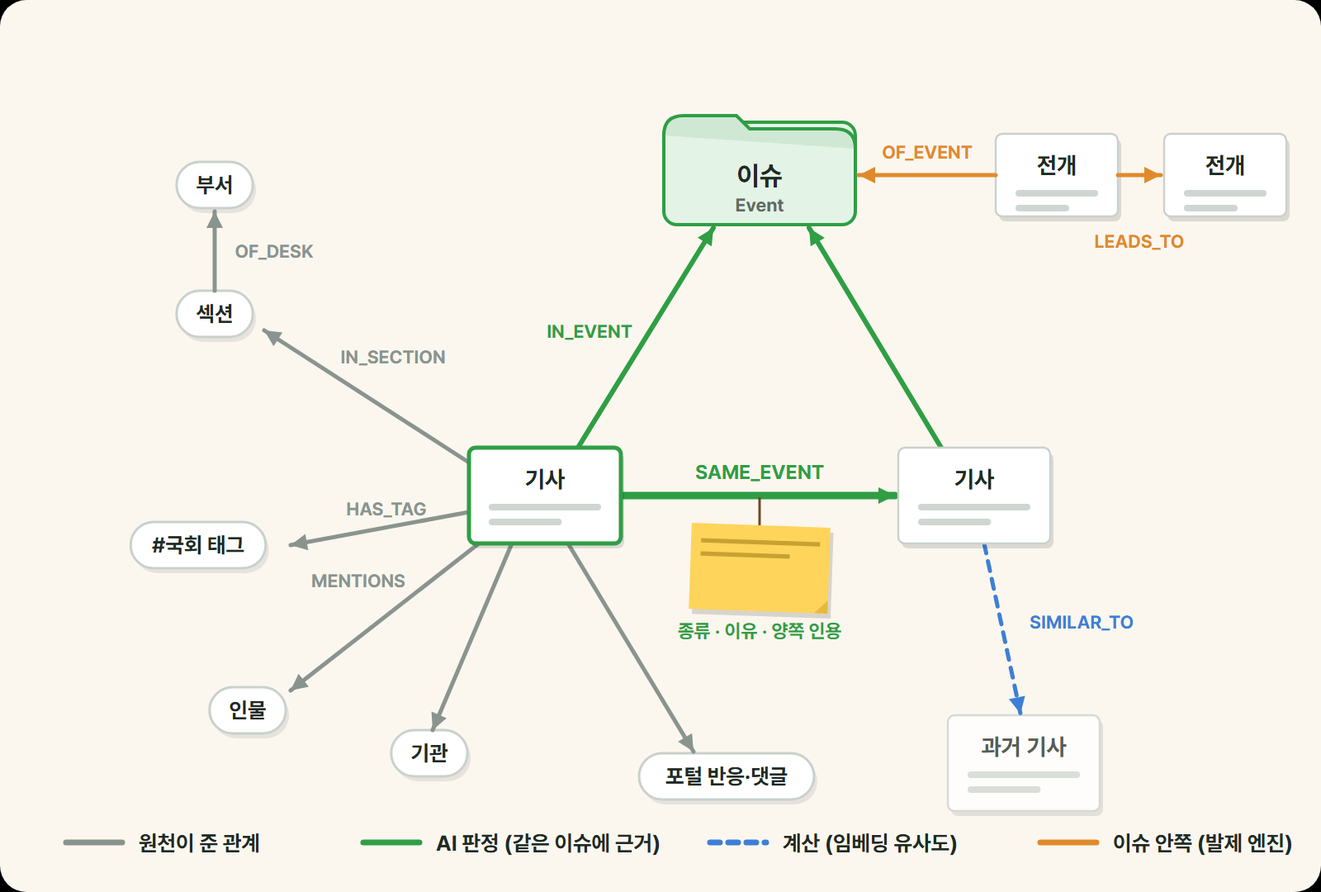
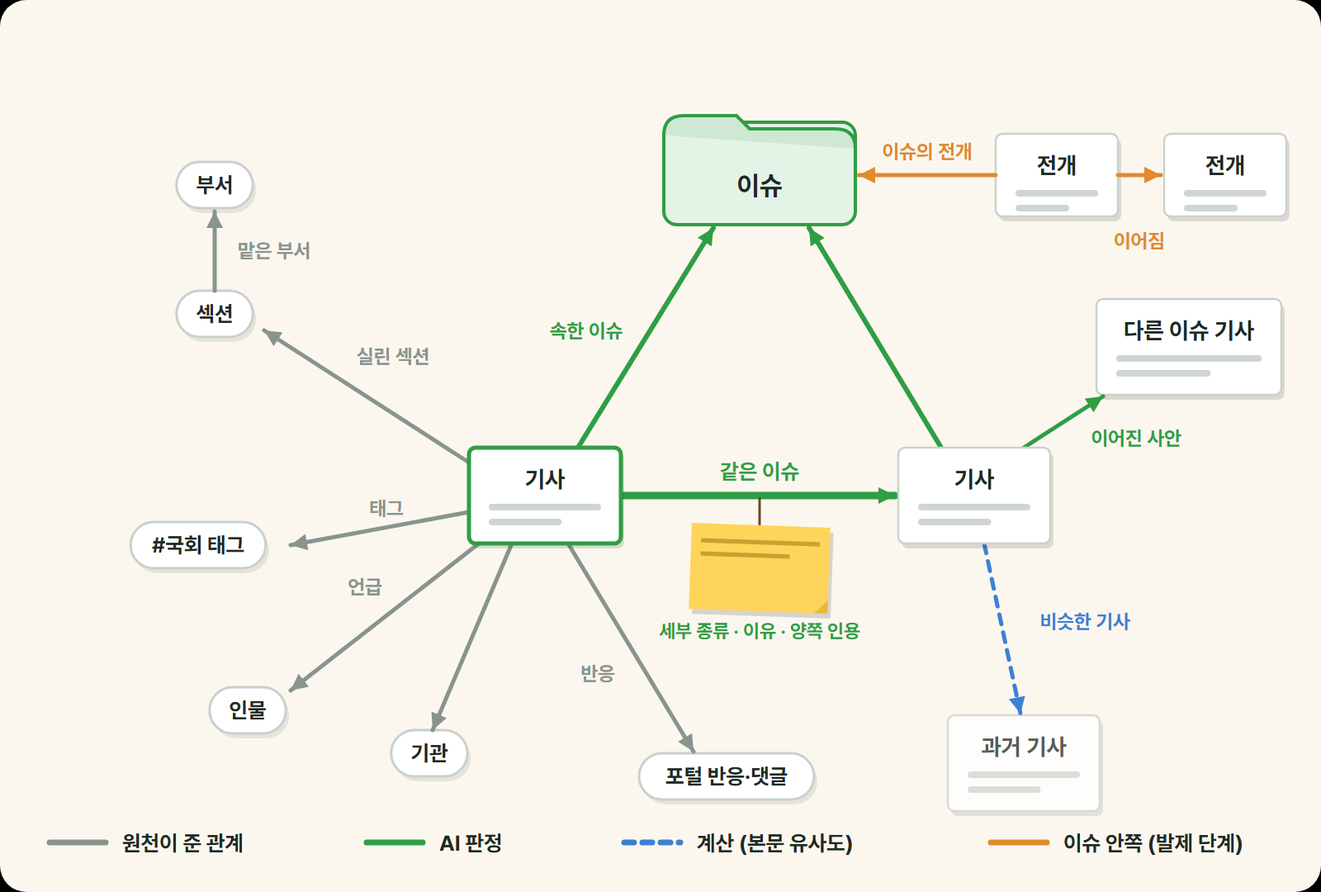
docs: 리뷰 반영: 문제·도입·시행착오 흐름으로 글 재구성

diff --git a/content/posts/nci-graph-ontology/index.md b/content/posts/nci-graph-ontology/index.md
@@ -1,183 +1,152 @@
 ---
 title: "이슈 흐름에서 후속 발제까지: 온톨로지 설계와 그래프 DB 구축"
-summary: "이슈 흐름을 파악해 후속 발제를 제안하던 사내 도구 N.C.I를 만들며, 왜 그래프와 온톨로지가 필요했는지, 온톨로지를 어떻게 설계하고 Amazon Neptune에 그래프를 어떻게 쌓았는지 정리했습니다."
+summary: "이슈 흐름을 파악해 후속 발제를 제안하던 사내 도구 N.C.I를 만들며 부딪힌 문제와, 이를 풀기 위해 그래프 DB와 온톨로지를 어떻게 도입했는지, 그 과정의 시행착오를 정리했습니다."
 category: tech
 topic: ai-db
 tags: ["Graph Database", "온톨로지", "Amazon Neptune", "openCypher", "데이터 모델링"]
 author: { name: "찬욱", role: "Backend Engineer" }
 publishedAt: 2026-11-09
-readingMinutes: 14
+readingMinutes: 16
 cover: ./cover.jpg
 ---
 
-안녕하세요. 한국일보에서 백엔드 개발을 맡고 있는 찬욱입니다.
+안녕하세요. 한국일보에서 클라우드를 담당하고 있는 찬욱입니다.
 
 한국일보에는 매일 쓰는 기사와 함께 조회 통계 같은 데이터가 쌓입니다. 하지만 이 데이터는 대부분 기사 한 건 단위로만 쓰였고, 기사와 기사 사이의 관계는 어디에도 남지 않았습니다. 쌓인 기사 데이터를 더 활용할 방법은 없을까, 그 관계를 그래프 DB에 담아 쓸 수는 없을까 고민하다 시작한 것이 사내 개념 검증(PoC) 프로젝트 N.C.I(New Context Insights)입니다.
 
-N.C.I는 기사가 어느 이슈에 묶이는지 AI가 판정해 이슈 흐름을 파악하고, **그 흐름을 바탕으로 편집회의에 올릴 후속 발제를 제안하는 도구**였습니다. 그 바탕에 기사 사이의 관계와 근거를 쌓은 그래프가 있습니다. 저는 그중 온톨로지 설계와 그래프 DB 구축을 맡았습니다.
+N.C.I는 기사가 어느 이슈에 묶이는지 AI가 판정해 이슈 흐름을 파악하고, **그 흐름을 바탕으로 편집회의에 올릴 후속 발제를 제안하는 도구**였습니다. N.C.I의 바탕에는 기사 사이의 관계와 근거를 쌓은 그래프가 있었고, 저는 N.C.I에서 온톨로지 설계와 그래프 DB 구축을 맡았습니다.
 
-이번 글에서는 왜 그래프와 온톨로지가 필요했는지, 온톨로지를 어떻게 설계하고 Amazon Neptune에 그래프를 어떻게 쌓았는지, 그 위에서 후속 발제까지 어떻게 이어졌는지 소개하겠습니다.
+이번 글에서는 N.C.I를 만들며 어떤 문제가 있었고, 이를 풀기 위해 그래프 DB와 온톨로지를 어떻게 도입했는지, 그 위에서 무엇이 가능해졌고 어떤 시행착오를 겪었는지 소개하겠습니다.
 
-## 1. 왜 그래프, 왜 온톨로지인가
+## 1. 기사 데이터로 답하기 어려웠던 질문
 
-N.C.I의 사용자는 아침 편집회의를 준비하는 부서 데스크였습니다. 원천 통계가 하루 한 번 들어오기 때문에, 실시간 대시보드가 아니라 회의 전에 한 번 보고 판단하는 브리핑으로 설계했습니다. 후속을 제안하려면 먼저 이슈가 어떻게 흘러왔는지 알아야 했습니다. 어떤 기사들이 같은 이슈인지, 그 안에서 무엇이 새로 확인됐고 무엇이 아직 확인되지 않았는지입니다. 기사, 이슈, 인물·기관, 포털 반응이 모두 서로 이어진 데이터였습니다.
+N.C.I의 사용자는 아침 편집회의를 준비하는 부서 데스크였습니다. 후속을 제안하려면 먼저 어떤 기사들이 같은 이슈이고, 그 안에서 무엇이 새로 확인됐고 무엇이 아직 확인되지 않았는지 알아야 했습니다.
 
-그래프 DB는 형사 드라마의 사건 보드와 비슷합니다. 보드의 카드가 노드, 카드를 잇는 실이 관계, 카드나 실에 붙인 메모가 속성입니다. 노드의 종류는 라벨, 관계의 종류는 타입이라고 부릅니다.
+하지만 기사 데이터는 제목, 날짜, 조회수 같은 항목으로만 저장돼 있어서, "두 기사가 같은 이슈다"처럼 기사 사이의 관계를 적을 항목이 없었습니다. 관계는 따로 저장해 두고, 찾을 때마다 기사 데이터와 대조해야 했습니다.
 
-![코르크 보드 위 두 기사 카드를 잇는 실(관계)에 종류·이유·양쪽 인용이 적힌 메모(속성)가 바로 붙어 있는 그림](./relation-evidence.png)
-
-돌아보면 그래프로 쌓아서 얻은 것은 세 가지였습니다.
-
-- **근거를 관계에 저장:** 관계형이라면 연결 테이블을 두고 매번 조인해야 하지만, 그래프에서는 선을 따라간 질의가 판정 이유와 원문 인용을 함께 꺼낼 수 있었습니다.
-- **날을 넘는 이슈:** 매일 기사가 붙고 합쳐지는 이슈의 변화를 노드와 관계로 남길 수 있었습니다.
-- **묻는 모양 그대로의 질의:** 몇 단계를 건너는 질문을 문장이 묻는 모양 그대로 질의로 쓰고, 사람이 읽고 검증할 수 있었습니다.
+이 대조를 여러 번 거쳐야 답이 나오는 질문도 있었습니다. 이슈의 기사가 어느 부서에서 나왔는지는 이슈에서 기사, 섹션을 거쳐 부서까지 매번 같은 세 단계입니다. 하지만 한 사건이 몇 단계의 사슬을 거쳐 다음 사건과 이어지는지는 그래프를 탐색해 봐야 알 수 있습니다. 예를 들어 같은 이슈 안에서 어떤 발표가 다음 결정으로, 그 결정이 다시 다른 조치로 이어지기도 합니다. 이런 질문은 몇 번 대조해야 할지 미리 알 수 없어서, 언제 멈출지까지 직접 정해 줘야 했습니다.
 
 ![2컷 만화. 이슈-기사-섹션-부서처럼 단계가 정해진 질문과, 전개가 몇 단계로 이어질지 모르는 질문](./hop-questions.png)
 
-이슈의 기사가 어느 부서에서 나왔는지는 매번 같은 세 단계를 건너지만, 한 사건이 다음 사건을 낳은 사슬은 몇 단계일지 따라가 봐야 압니다. 관계형 DB라면 재귀 쿼리와 멈출 조건을 직접 써야 하는 질문입니다.
+또 N.C.I 화면은 미리 정해 둔 질문에만 답해서, 한 부서의 기사를 시간대별로 세어 달라는 것처럼 데스크가 그때그때 떠올린 질문에는 답할 수 없었습니다.
 
-그중에서도 관리형 그래프 DB인 Neptune을 들인 직접적인 이유는 데스크가 화면에 없는 질문을 던지는 **물어보기 창**이었습니다. 화면에 쓰는 계산만이라면 배치 때 메모리에 그래프를 올려도 같은 결과가 나왔지만, AI 에이전트가 아무 때나 질의를 짜려면 실행 중인 그래프 DB가 필요했습니다.
+## 2. 그래프 DB와 온톨로지
 
-그래프 DB가 사건 보드라면, 온톨로지는 그 보드에 어떤 카드와 실을 쓰고 각각 무슨 뜻인지 정한 약속입니다. N.C.I는 OWL 같은 추론용 형식 언어를 쓰지 않았습니다. 여기서 온톨로지는 노드 라벨과 관계 타입, 그 뜻을 정하는 스키마 설계를 말합니다.
+### 그래프 DB와 Neptune
+
+기사 사이의 관계를 따라가야 답이 나오는 질문에 답하려고, 연결 자체를 데이터로 담는 그래프 DB를 쓰기로 했습니다. 그래프 DB는 형사 드라마에 나오는 사건 보드와 비슷합니다. 형사는 용의자, 피해자, 장소를 카드 한 장에 하나씩 적어 보드에 붙이고, 서로 관련 있는 카드끼리 실로 잇습니다. 실에는 "사건 당일 통화"처럼 왜 이었는지를 메모로 붙입니다. 그러면 실을 따라가며 누가 누구와 어떻게 얽혀 있는지 볼 수 있습니다.
+
+그래프 DB에서는 카드처럼 하나하나의 대상을 노드, 두 대상을 잇는 실을 관계, 카드나 실에 붙인 메모를 속성이라고 합니다.
+
+N.C.I의 보드에서는 기사와 인물·기관, 이슈가 노드입니다. 두 기사를 잇는 "같은 이슈" 실과 기사에서 인물로 이어지는 "언급" 실이 관계이고, "같은 이슈" 실에는 왜 같은 이슈로 봤는지 판정 이유와 양쪽 원문 인용을 메모로 붙였습니다. 형사가 실을 따라가듯, 몇 단계를 건너는 질문도 실을 따라 노드에서 노드로 넘어가면 되므로 단계가 몇 개인지 미리 정하지 않고 물을 수 있습니다.
+
+![코르크 보드 위 두 기사 카드를 잇는 실(관계)에 판정 이유·양쪽 인용이 적힌 메모(속성)가 바로 붙어 있는 그림](./relation-evidence.png)
+
+그래프 DB로는 AWS의 Amazon Neptune을 사용했습니다. Neptune을 사용한 이유는 데스크가 화면에 없는 질문을 AI 에이전트에게 던지는 **물어보기 기능** 때문이었습니다. 화면에 보여 줄 숫자는 하루 한 번 계산해 두면 됐지만, 데스크가 원하는 때에 에이전트가 그래프에 질의하려면 그래프 DB가 늘 켜져 있어야 했습니다.
+
+### 온톨로지
+
+온톨로지는 한 분야의 개념과 그 사이의 관계를 정해 둔 것으로, 사람과 프로그램이 같은 말을 같은 뜻으로 쓰게 하는 것이 목적입니다. 사건 보드에 빗대면 어떤 종류의 카드와 실을 쓰고 각각이 무엇을 뜻하는지 적어 둔 목록입니다. N.C.I의 온톨로지에는 기사, 이슈, 인물·기관, 부서 같은 노드의 종류와 "같은 이슈", "이어진 사안", "언급" 같은 관계의 종류, 그리고 각각의 뜻이 들어갔습니다.
+
+뜻을 정해 두지 않으면 "같은 이슈"라는 말부터 흔들립니다. 두 기사에 "국회" 같은 이름이 함께 나오기만 해도 같은 이슈로 볼 수도 있고, 내용을 읽고 같은 사안인지 따져 본 뒤에야 같은 이슈로 볼 수도 있습니다. 같은 이름이 나와도 실제로 같은 이슈인 경우는 생각보다 적어서, N.C.I는 AI가 두 기사를 읽고 같은 사안이라고 판정한 관계만 "같은 이슈"로 정했습니다. 이름이 겹치는지는 AI에게 비교를 맡길 기사 짝을 고르는 데만 썼습니다.
+
+그런데 Neptune 같은 그래프 DB는 이렇게 정해 둔 카드와 실의 종류를 지켜 주지 않습니다. 항목으로 저장하는 DB는 어떤 항목을 둘지 먼저 정해야 값을 넣을 수 있어서, 틀에 맞지 않는 값은 들어가지 않습니다. 반면 Neptune은 그런 틀 없이 처음 보는 종류의 카드와 실도 그대로 받아 줍니다. 그래서 정해 둔 종류와 뜻을 지키는 일은 DB가 아니라 데이터를 싣는 쪽과 꺼내 쓰는 쪽이 맡아야 했습니다. 특히 그때그때 스스로 질의를 짜는 물어보기 에이전트는 이 뜻을 알아야 해서, 온톨로지를 문서로 정리해 질의 전에 먼저 읽게 했습니다.
 
 <details class="mt-20 rounded-8 border border-line bg-surface px-16 py-12 text-15 [&>p]:mt-8">
-<summary class="cursor-pointer font-semibold text-foreground">OWL이란?</summary>
+<summary class="cursor-pointer font-semibold text-foreground">N.C.I 온톨로지 예시</summary>
 
-OWL(Web Ontology Language)은 W3C가 정한 온톨로지 언어입니다. 모든 데이터를 주어·술어·목적어 세 칸 문장으로 적는 RDF 데이터 위에서 개념과 관계를 형식적으로 정의해 두면, 추론기(reasoner)라는 프로그램이 그 정의에서 데이터에 적혀 있지 않은 새 사실을 끌어냅니다. 예를 들어 "부장은 데스크의 한 종류"라고 정의해 두면, 어떤 기자가 부장이라는 사실만으로 데스크라는 결론을 냅니다.
+에이전트가 읽는 온톨로지 문서의 일부를 줄여 옮기면 이렇습니다. 정해진 표준 형식은 아닙니다. LLM이 질의를 짤 수 있게 노드·관계 종류와 연결 모양을 알려 주는 스키마 설명에, 사람이 적은 뜻과 주의 사항을 더한 것입니다. 실제 문서에는 노드와 관계마다 개수, 부서 목록, 수집 기간도 함께 들어 있습니다.
 
-N.C.I는 두 기사가 같은 이슈인지를 코드 규칙과 LLM이 그래프 밖에서 판정하고, 그 결과만 그래프에 실었습니다. 그래서 추론기가 할 일이 없었고, 온톨로지를 노드와 관계의 뜻을 정한 스키마로만 썼습니다.
+```text
+노드  Article(기사) · Event(이슈) · Entity(인물·기관·사건명) · Tag · Section · Desk
+      Development(전개) · Open(미확인 사항) · Pitch(발제) …
+
+관계  (Article)-[:SAME_EVENT]->(Article)   AI가 판정한 같은 이슈
+      (Article)-[:IN_EVENT]->(Event)       기사가 속한 이슈
+      (Article)-[:MENTIONS]->(Entity)      기사가 언급한 인물·기관
+      (Article)-[:SIMILAR_TO]->(Article)   본문이 비슷한 기사(계산)
+      (Event)-[:CONTINUES]->(Event)        ID가 바뀐 이슈의 옛 이슈 → 새 이슈 …
+
+주의  - 이슈는 Event 노드다. 이슈의 기사는 IN_EVENT로 묻고, 태그로 뭉치지 마라.
+      - SIMILAR_TO는 "비슷하다"이지 "같은 이슈"가 아니다. 이걸로 이슈를 묶지 마라.
+      - Event의 이름은 모델이 지은 것이다. 사실로 인용하지 말고 모델이 붙인 이름이라고 밝혀라.
+      - Batch·Section은 그날 기사 전부와 이어진다. 이걸 거쳐 관련 기사를 뽑지 마라.
+      - 기자 정보는 묻지 마라.
+```
 
 </details>
 
-Neptune은 스키마를 강제하지 않습니다. 약속을 따로 세우지 않으면 같은 "이슈"가 질의마다 다른 뜻이 됩니다. 물어보기 에이전트도 이 약속을 읽고 질의를 짰습니다.
+정한 뜻은 사람이 함께 보는 용어집에도 남겨, 한 뜻에 한 단어만 쓰고 "이렇게 부르지 말 것"도 적었습니다. 예를 들어 전개는 "한 이슈 안에서 보도로 확인되는 새 발표·결정·진행"이고, 기사 한 편이나 이슈 전체는 전개라고 부르지 않습니다.
 
-## 2. 온톨로지 설계
+## 3. 온톨로지 설계와 그래프 구축
 
-### 질문에서 개념으로
+### 질문에서 시작한 설계
 
-이 약속, 곧 모델은 질문에서 시작했습니다. 근거는 원천 데이터를 실측한 결과와 화면이 답해야 할 실무 질문, 두 가지였습니다. 데이터 모양에서 출발하면 원천 테이블의 열이 그대로 노드와 속성이 되고, 정작 묻는 질문에는 답하지 못합니다.
+온톨로지 설계는 질문에서 시작했습니다. 원천 데이터의 모양을 그대로 옮기면 기사 사이의 관계는 빠진 채 항목만 노드와 속성이 되어, 정작 화면이 답해야 할 질문에는 답하지 못합니다. 질문 목록을 먼저 세우고, 온톨로지를 바꿀 때마다 이 목록으로 채점했습니다. 회의 브리핑에 쓰는 문항 가운데 하나라도 답하지 못하게 되면 변경을 되돌렸습니다. 문항마다 결과는 네 가지로 매겼습니다.
 
-그래서 고정 질문 목록을 먼저 세우고, 모델을 바꿀 때마다 이 질문으로 채점했습니다. 회의 브리핑에 쓰는 문항이 하나라도 깨지면 변경을 되돌렸습니다. 문항마다 판정은 네 가지로 매겼습니다.
-
-| 판정 | 뜻 | 쓰임 |
+| 결과 | 뜻 | 쓰임 |
 | --- | --- | --- |
-| 답한다 | 지금 모델과 화면이 답한다 | 회귀 기준 |
+| 답한다 | 지금 그래프와 화면이 답한다 | 고칠 때마다 계속 답하는지 확인 |
 | 그래프만 답한다 | 질의로는 답이 나오지만 화면이 없다 | 물어보기가 맡을 질문 |
-| 모델이 못 담는다 | 재료는 있는데 구조가 못 담는다 | 모델을 고칠 이유 |
+| 온톨로지가 못 담는다 | 재료는 있는데 지금 설계로는 못 담는다 | 온톨로지를 고칠 이유 |
 | 답하면 안 된다 | 원천이 부족하거나 정책상 금지다 | "답할 수 없다"가 정답 |
-
-마지막 칸이 중요했습니다. "이 기자의 다른 기사 성과는?"은 답이 나오지만 기자별 성적표가 되므로 정책상 뺐습니다. "출고 후 수정된 기사는?"처럼 값은 있어도 뜻이 다른 질문은 그럴듯한 거짓 답을 냅니다. 수정 시각은 시스템이 메타데이터만 바꿔도 찍히는 값이었습니다.
-
-개념 하나를 더할 때는 이 순서를 밟았습니다.
-
-```text
-질문 모으기 → 명사를 개념 후보로 → 노드·속성 판정 → 관계 방향 정하기 → ID 유일성 확인 → 다시 채점
-```
-
-노드로 올릴지는 네 가지로 판단했습니다. 여러 기사가 공유하는가, 그 값에서 출발하는 질문이 있는가, 원천이 그 값을 보증하는가, 키가 안정적인가입니다.
-
-- **속성으로 둔 것:** 정기물 여부와 출고 날짜·시각은 질문에 필요해서 기사 속성으로 올렸습니다.
-- **되돌린 것:** 기사 성과 수치를 노드로 뒀다가 기사와 1:1이라 네 기준 중 하나도 맞지 않아 속성으로 접었습니다. 접은 뒤 노드 수 표시 말고는 화면 결과가 한 글자도 바뀌지 않은 것으로 검증했습니다.
-
-정한 개념은 용어집에 남겼습니다. 한 뜻에 한 단어만 쓰고, 항목마다 정의와 함께 "이렇게 부르지 말 것"을 적었습니다. 예를 들어 전개는 "한 이슈 안에서 보도로 확인되는 새 발표·결정·진행"이고, 기사 한 편이나 이슈 전체를 전개라고 부르지 않기로 했습니다.
 
 ### 원천이 준 관계와 만든 관계
 
-첫 원칙은 "원천 데이터가 주지 않은 구조는 만들지 않는다"였습니다. 하지만 두 기사가 같은 이슈인지는 원천이 알려 주지 않습니다. 그래서 원천 밖에서 만든 관계는 조건을 붙인 예외로 들이고, 만든 방법을 `source` 속성으로 표시했습니다. 질의가 신뢰도를 가릴 수 있게 하기 위해서입니다.
+관계를 정할 때 첫 원칙은 "원천 데이터가 주지 않은 구조는 만들지 않는다"였습니다. 그래프에는 원천이 확인해 준 사실만 두고, 판단은 사람에게 맡기려는 것이었습니다. 하지만 N.C.I의 중심인 "두 기사가 같은 이슈인가"는 원천이 알려 주지 않습니다. 그래서 원천 밖에서 만든 관계는 예외로 허용하고, 만든 방법을 `source` 속성으로 표시해 질의에서 신뢰도를 구분할 수 있게 했습니다.
 
-| 층 | 노드·관계 | 만든 방법 |
-| --- | --- | --- |
-| 원천 구조 | 기사, 섹션, 부서, 포털 반응·댓글 | 원천 그대로 |
-| 원천이 준 개체 | 태그, 인물·기관·사건명 개체와 `MENTIONS` | 원천 그대로 |
-| 판정 | `SAME_EVENT`(같은 이슈), `SAME_THREAD`(이어지는 흐름), 이슈와 `IN_EVENT` | LLM 판정 |
-| 계산 | `SIMILAR_TO`(본문이 비슷한 기사) | 임베딩 유사도 |
-| 이슈 안쪽 | 전개·미확인 사항·발제와 `LEADS_TO` | 후속 발제 엔진의 결과 |
+![N.C.I 온톨로지 지도. 기사를 중심으로 원천이 준 관계, AI가 판정한 같은 이슈·이어진 사안 관계와 이슈, 계산으로 만든 유사 관계를 선 모양으로 구분한 그림](./ontology-map.png)
 
-![N.C.I 온톨로지 지도. 기사를 중심으로 원천이 준 관계, AI가 판정한 같은 이슈 관계와 이슈, 계산으로 만든 유사 관계를 선 모양으로 구분한 그림](./ontology-map.png)
+같은 사안을 다루는 두 기사는 "같은 이슈" 관계로 잇고, 이 관계를 따라 이어지는 기사들만 하나의 이슈로 묶었습니다. 묶는 계산은 그래프 밖에서 하고 결과만 실었습니다. 다른 사안이지만 앞 사안에서 비롯된 기사는 "이어진 사안" 관계로 잇되, 이 관계로는 이슈를 묶지 않았습니다. 예를 들어 태풍 피해 기사와 피해 복구 예산 기사는 서로 다른 이슈이고, 복구 예산은 태풍 피해에서 비롯된 사안입니다. 이런 "이어진 사안"까지 "같은 이슈"로 이으면 A와 B, B와 C, C와 D가 차례로 이어지다가 서로 상관없는 A와 D까지 한 이슈가 됩니다.
 
-인물·기관 개체를 공유한다고 같은 이슈인 경우는 생각보다 적었습니다. 그래서 개체 공유는 화면에 바로 내지 않고 판정 후보를 고르는 재료로만 썼습니다. 이슈는 연결 모양으로 자동으로 묶는 그래프 알고리즘 대신 판정으로 묶었습니다.
+이 가운데 온톨로지의 중심은 "같은 이슈" 관계인 `SAME_EVENT`입니다. 관계 위에는 세부 종류(후속·반응·배경·다른 각도), 판정 이유 한 문장, 짧은 요지, 양쪽 원문 인용, 판정한 AI 모델을 함께 실었고, 방향은 먼저 나온 기사에서 나중 기사로 뒀습니다.
 
-### 관계 위의 근거와 ID
+### 그래프 구축
 
-온톨로지의 중심은 기사와 기사를 잇는 `SAME_EVENT` 관계입니다. 관계 위에 관계 종류(후속·반응·배경·다른 각도), 판정 이유 한 문장, 짧은 요지, 양쪽 원문 인용, 판정 모델을 함께 실었고, 방향은 먼저 나온 기사에서 나중 기사로 뒀습니다.
-
-N.C.I는 그래프용 질의 언어인 openCypher를 썼습니다. 괄호는 노드, 대괄호는 관계, 화살표는 방향입니다. 근거는 이렇게 질의 한 번으로 꺼냈습니다.
-
-```cypher
-MATCH (a:Article {id: $a})-[r:SAME_EVENT]-(b:Article {id: $b})
-RETURN r.relation, r.reason, r.quoteA, r.quoteB, r.source
-```
-
-<details class="mt-20 rounded-8 border border-line bg-surface px-16 py-12 text-15 [&>p]:mt-8">
-<summary class="cursor-pointer font-semibold text-foreground">openCypher 읽는 법</summary>
-
-openCypher는 Neo4j가 만든 그래프 질의 언어 Cypher를 여러 DB가 쓸 수 있게 공개한 사양입니다. SQL이 표에서 행을 고른다면, openCypher는 찾고 싶은 그래프 모양을 그려서 그 모양과 맞는 부분을 찾습니다.
-
-위 질의에서 `(a:Article {id: $a})`는 라벨이 Article이고 id가 $a인 노드, `-[r:SAME_EVENT]-`는 두 노드를 잇는 SAME_EVENT 관계를 뜻합니다. 화살표 없이 쓰면 방향을 가리지 않습니다. `RETURN`은 SQL의 SELECT처럼 꺼낼 값을 고릅니다.
-
-</details>
-
-양쪽 인용이 원문에 글자 그대로 있고 두 기사가 모두 그래프에 있을 때만 실었습니다. 다만 이 대조는 문장이 원문에 있다는 것만 보장할 뿐, 판정이 옳다는 보장은 아닙니다. 이슈는 이 관계로 이어진 기사 묶음으로, 묶음은 그래프 밖에서 계산해 결과만 실었습니다.
-
-관계를 설계하며 지킨 원칙이 둘 더 있습니다.
-
-- **묶음 관계와 흐름 관계를 나눈다:** 같은 이슈인지와, 한 일이 다음 일로 이어졌는지를 다른 타입으로 뒀습니다. 한 타입에 섞으면 A-B, B-C, C-D로 이어지다가 서로 무관한 A와 D가 한 이슈가 됩니다.
-- **합쳐도 지우지 않는다:** 전개 두 개를 하나로 합칠 때 흡수된 쪽을 지우지 않고, 합친 쪽을 가리키는 관계를 남긴 뒤 기본 조회에서만 빠지게 했습니다. 잘못 합쳤을 때 펼쳐 되살릴 수 있게 하기 위해서입니다.
-
-ID는 "무엇이 같은 것인가"를 정하는 일이었습니다. Neptune의 노드 ID는 라벨과 상관없이 그래프 전체에서 유일해야 해서, 이름을 그대로 ID로 쓰자 적재할 때 태그 '국회'와 기관 '국회'가 노드 하나로 합쳐졌습니다. 그래서 `tag:국회`, `ent:group:국회`처럼 모든 ID 앞에 노드 종류를 붙였습니다.
-
-![꼬리표(노드 ID)가 같은 태그 국회와 기관 국회가 적재할 때 하나로 합쳐지고, ID에 종류를 붙이면 따로 남는 그림](./loader-id.png)
-
-이슈 ID는 더 까다로웠습니다. 구성원 기사 목록으로 ID를 만드니 기사 하나만 붙어도 다른 이슈가 되어, 그래프가 역사가 아니라 그날의 스냅샷이 됐습니다. 그래서 어제 이슈와 기사가 절반 이상 겹치면 ID를 이어받게 하고, 합쳐지거나 갈라져 ID가 바뀐 날에만 옛 이슈에서 새 이슈로 `CONTINUES` 관계를 남겼습니다. 처음부터 둘로 갈라진 같은 사안은 이 방식으로 이어지지 않아, 닮은 이슈를 후보로만 내고 자동으로 합치지는 않았습니다.
-
-## 3. 그래프 DB 구축
-
-### 파이프라인과 적재
-
-이렇게 설계한 모델은 하루 한 번 도는 배치로 Neptune에 실었습니다.
+이렇게 설계한 그래프는 하루 한 번 자동으로 도는 작업으로 Neptune에 실었습니다. 통계가 하루 한 번 들어오기 때문입니다.
 
 ![수집, AI 판정, 그래프 적재, 후속 발제·화면·물어보기로 이어지는 N.C.I 파이프라인 그림](./pipeline.png)
 
 1. **수집:** 통계, 기사 본문, 포털 반응, 자사 태그를 모았습니다. 포털 반응은 원문 주소가 일치할 때만 기사와 짝지었고, 제목이 비슷하다고 붙이지 않았습니다.
-2. **판정:** 후보 기사 쌍을 좁힌 뒤 LLM이 같은 이슈, 이어지는 흐름, 무관 중 하나로 판정하고 양쪽 인용을 냈습니다. 인용을 원문과 대조해 이슈로 묶은 뒤, 이슈 단위로 한 번 더 확인해 관련만 있고 다른 이슈인 기사를 떼어 냈습니다.
-3. **적재:** 원천 전체를 노드·관계 CSV로 바꿔 S3에 쓰면, Neptune 벌크 로더가 경로를 통째로 읽어 실었습니다.
+2. **판정:** 비교할 기사 짝을 먼저 추린 뒤, LLM이 두 기사를 읽고 같은 이슈, 이어진 사안, 무관 중 하나로 판정하면서 양쪽 기사에서 근거 문장을 하나씩 뽑았습니다. 뽑은 문장이 원문에 그대로 있는지 대조한 다음, 같은 이슈로 판정된 기사끼리 이슈로 묶었습니다. 그리고 이슈별로 한 번 더 확인해, 관련만 있을 뿐 다른 이슈인 기사를 떼어 냈습니다.
+3. **적재:** 수집한 데이터와 판정 결과 전체를 노드·관계 CSV로 바꿔 S3에 올리면, Neptune 벌크 로더가 통째로 읽어 실었습니다. 오류가 하나라도 나면 적재 전체를 실패로 돌려, 일부만 실린 그래프가 남지 않게 했습니다.
 4. **활용:** 후속 발제를 만드는 단계, 화면 파일을 만드는 단계, 물어보기 에이전트가 이 그래프를 읽었습니다.
 
-적재에는 두 가지 판단이 들어갔습니다. 하나는 오류가 하나라도 나면 적재 전체를 실패시키는 설정입니다. 절반만 실린 그래프가 실패보다 나쁘다고 봤습니다. 다른 하나는 갱신 적재입니다. 로더는 기본 설정에서 같은 ID의 값을 덮어쓰지 않아, 처음엔 매일 그래프를 비우고 전부 다시 실었고 그동안 그래프가 비었습니다. 덮어쓰기 옵션을 켜고 관계 ID를 목록 순번이 아니라 "양 끝 노드와 관계 종류"로 짓자 비우지 않고 갱신할 수 있었습니다. 무언가를 없애는 날에만 비우고 다시 실었습니다.
+## 4. 그래프 위에서 가능해진 것
 
-### 그래프를 쓰면서 고친 것
+- **후속 발제 제안:** 후속 발제를 만드는 단계가 그래프에서 이슈와 "같은 이슈" 관계를 읽고, LLM으로 이슈마다 후속 발제 후보와 초안을 만들었습니다. 후보에는 요약, 확인할 곳, 마감, 왜 지금 다뤄야 하는지가 들어갔습니다. 이슈에서 새로 확인된 것은 전개로, 아직 확인되지 않은 것은 미확인 사항으로 나눠 발제와 함께 그래프의 이슈 아래에 다시 실었습니다. 앞 전개와 뒤 전개, 발제와 미확인 사항을 각각 잇는 관계도 함께 남겼습니다.
+- **이슈 흐름:** 날짜가 바뀌어도 어제의 이슈와 오늘의 같은 이슈를 하나로 다뤄, 그 이슈가 며칠째 보도되고 있는지와 기사가 평소보다 늘고 있는지를 화면에서 바로 볼 수 있었습니다.
+- **근거 보기:** 이슈 상세의 관계 지도에서 선마다 세부 종류와 요지를 달아, 두 기사가 왜 이어졌는지 선만 보고도 알 수 있었습니다.
 
-처음 그래프는 판정 결과를 받아 적기만 하는 저장소였습니다. 판정 코드가 Neptune을 한 번도 부르지 않았습니다. 판정이 도는 시점의 그래프에는 어제까지가 실려 있으므로, 오늘 기사와 과거 기사의 후보 쌍은 그래프에서 찾도록 바꿨습니다. 흔하지 않은 개체를 두 개 이상 공유하는 과거 기사입니다.
+### 후속 발제 예시
 
-어떤 질의로도 닿지 않는 기사가 많다는 것도 알게 됐습니다. 본문 임베딩이 가까운 기사 쌍을 `SIMILAR_TO` 관계로 이었습니다. 벡터는 그래프에 넣지 않고 점수만 싣고, 근거 문장이 없으니 판정 관계와 섞지 않았습니다.
+DMZ 지뢰 폭발 사고 이슈를 예로 들면 이렇습니다. 9월 21일 첫 보도 뒤 이 이슈에는 여러 기사가 묶였고, 그 안에서 확인된 전개와 아직 답이 나오지 않은 미확인 사항이 쌓였습니다. 10월 7일 회의를 앞두고 N.C.I는 「수색로 개척 때 안전대책 있었나」라는 후속 발제를 제안했습니다. 발제에 적힌 확인할 곳은 합동참모본부와 국방부였습니다. 왜 지금 다뤄야 하는지에는 9월 21일과 26일 자사 보도로 제기된 수색로 안전대책 의혹이 10월 1일 보도 이후 엿새째 멈춰 있다는 점이 들어갔습니다.
 
-모델과 적재가 맞는지는 모델을 바꿀 때마다 고정 질문으로 다시 채점하고, 같은 데이터를 실은 로컬 그래프 DB와 답을 비교하고, 로컬과 AWS의 산출 전체를 맞춰 보는 방식으로 확인했습니다.
-
-## 4. 그래서 가능해진 것
-
-이렇게 쌓은 그래프가 후속 발제의 바탕이 됐습니다.
-
-- **후속 발제 제안:** 발제 엔진이 그래프에서 이슈와 같은 이슈 관계를 읽어, 이슈마다 후속 발제 후보(요약, 확인처, 마감, 왜 지금인지)와 초안을 만들었습니다. 결과는 그래프의 이슈 안쪽 층에 다시 실었습니다.
-- **발제 근거 추적:** 그래서 물어보기에서 발제부터 미확인 사항과 전개를 거쳐, 그 미확인 사항이 나온 기사 문장까지 거꾸로 따라갈 수 있었습니다.
-- **이슈 흐름:** 판정으로 묶인 이슈가 날을 넘어 같은 ID로 이어져, 며칠째인지와 커지는 중인지를 보여 줄 수 있었습니다.
-- **근거 보기:** 이슈 상세의 관계 지도에서 선에 "종류 · 요지"를 달아, 두 기사가 왜 이어졌는지 바로 보였습니다.
-
-발제를 쓰는 일은 LLM이 했고, 그래프의 몫은 발제가 어느 이슈의 어떤 흐름에서 나왔는지를 근거와 함께 남기는 것이었습니다.
-
-### 물어보기 에이전트의 예
-
-물어보기 에이전트에는 부서 통계처럼 미리 정한 질문에 답하는 고정 도구와, 그래프를 직접 살펴보는 도구 두 개(`graph_schema`, `graph_query`)를 줬습니다. 초기 시험 대화는 이렇게 이어졌습니다.
+데스크가 이 발제를 회의에 올릴지 판단하려면 무엇을 근거로 나왔는지부터 봐야 합니다. 그래프에서는 발제에서 출발해 실을 거꾸로 따라가면 됩니다. 이 발제는 「수색로 개척 때 지뢰 탐지 조치는 있었나?」라는 미확인 사항에서 나왔고, 이 사항은 9월 21일 사고 전개와 이어져 있었습니다. 이 사항이 처음 나온 기사로 가는 관계에는 그 문장도 실려 있어, 발제에서 근거 기사까지 질의 한 번으로 거슬러 올라갈 수 있었습니다. 발제를 채택할지는 근거를 본 데스크가 정했습니다.
 
 ```text
-데스크: 정치 데스크는 어제 전체적으로 어땠어?
+발제              수색로 개척 때 안전대책 있었나 (10월 7일 회의)
+└ 미확인 사항     수색로 개척 때 지뢰 탐지 조치는 있었나? (확인할 곳: 합참 관계자)
+   ├ 전개         DMZ 수색 작전 중 지뢰 추정 폭발로 간부 3명 부상 (9월 21일)
+   └ 근거 기사    9월 21일 기사와 이 사항이 나온 문장
+```
+
+### 물어보기 예시
+
+물어보기에서는 발제 하나를 골라 이렇게 근거 기사까지 거슬러 올라갈 수 있었습니다. 전개끼리 잇는 관계를 끝까지 따라가, 한 이슈 안에서 어떤 발표가 어떤 결정으로 이어지고 그 결정이 다시 어떤 조치로 이어졌는지를 단계 수를 정해 두지 않고 보여 주기도 했습니다.
+
+물어보기 에이전트에는 부서 통계처럼 미리 정한 질문에 답하는 고정 도구 외에, 그래프를 직접 살펴보는 도구 두 개를 더 줬습니다. `graph_schema`로는 온톨로지 문서를 읽고, `graph_query`로는 질의를 실행합니다. 초기 시험 대화에서는 고정 도구로 답할 질문, 그래프에 직접 물어야 할 질문, 답하면 안 되는 질문이 이렇게 갈렸습니다.
+
+```text
+데스크: 정치부는 어제 전체적으로 어땠어?
   → 고정 도구(부서 통계)로 답했다
-데스크: 그 데스크 기사, 시간대별로 그래프에서 직접 세어 줘
-  → 고정 도구에 없는 질문. 스키마 설명을 먼저 읽고 질의를 직접 짰다
+데스크: 정치부 기사, 시간대별로 그래프에서 직접 세어 줘
+  → 고정 도구에 없는 질문. 온톨로지 문서를 먼저 읽고 질의를 직접 짰다
 데스크: 방금 본 기사, 누가 썼어?
   → 도구 없이 거절했다. 당시엔 기자 정보를 정책상 막았다
 ```
 
-두 번째 질문에서 에이전트는 먼저 `graph_schema`로 라벨과 관계 종류, 부서와 배치 목록, 축마다의 주의 사항을 읽고, `graph_query`로 이런 모양의 질의를 짰습니다.
+두 번째 질문에서 에이전트는 먼저 온톨로지 문서에서 노드와 관계의 종류, 부서와 수집 회차 목록, 주의 사항을 읽고, 그래프용 질의 언어인 openCypher로 이런 모양의 질의를 짜서 그래프에 물었습니다.
 
 ```cypher
 MATCH (b:Batch {id: $batch})<-[:COLLECTED_IN]-(a:Article)
@@ -186,19 +155,46 @@ RETURN a.publishedHour AS hour, count(a) AS articles
 ORDER BY hour
 ```
 
-질의는 화면 질의와 같은 검증기를 통과해야 실행됐습니다. `MATCH`로 시작하는 단일 문장만 허용했고, 쓰기 키워드와 기자를 거치는 질의를 막았고, 결과 행 수에 상한을 뒀습니다. 걸리면 오류 대신 사유를 돌려줘서, 에이전트가 결과나 사유를 보고 질의를 다시 짤 수 있게 했습니다.
+이번 회차에 모은 기사 가운데 이 부서가 맡은 섹션의 기사를 나간 시각별로 세어 달라는 질의입니다.
 
-스키마 설명은 그래프에서 되묻지 않고 손으로 적었습니다. 되물으면 통계 갱신이 늦은 관계 종류가 빠지고, 정책으로 막은 기자 정보까지 드러나기 때문입니다. 대신 손으로 적은 목록이 적재 정의와 어긋나지 않는지 테스트로 맞춰 봤고, 새 관계를 싣고 목록에 적지 않으면 테스트가 바로 잡아냈습니다.
+<details class="mt-20 rounded-8 border border-line bg-surface px-16 py-12 text-15 [&>p]:mt-8">
+<summary class="cursor-pointer font-semibold text-foreground">openCypher 읽는 법</summary>
+
+openCypher는 Neo4j가 만든 그래프 질의 언어 Cypher를 여러 DB가 쓸 수 있게 공개한 사양입니다. SQL이 표에서 행을 고른다면, openCypher는 찾고 싶은 그래프 모양을 그려서 그 모양과 맞는 부분을 찾습니다.
+
+괄호는 노드, 대괄호는 관계, 화살표는 방향입니다. 위 질의에서 `(b:Batch {id: $batch})`는 종류가 Batch이고 id가 $batch인 노드, `<-[:COLLECTED_IN]-`는 기사에서 수집 회차로 가는 관계를 뜻합니다. `RETURN`은 SQL의 SELECT처럼 꺼낼 값을 고릅니다.
+
+</details>
+
+에이전트가 짠 질의는 화면에 쓰는 질의와 같은 검사를 통과해야 실행됐습니다. 검사는 그래프를 읽기만 하는 질의 한 문장만 받고, 기자를 거쳐 가는 질의를 막고, 돌려주는 결과 수에 상한을 두었습니다. 검사에 걸리면 오류 대신 걸린 이유를 돌려줘서, 에이전트가 그 이유를 보고 질의를 다시 짤 수 있게 했습니다.
+
+## 5. 시행착오와 남은 한계
+
+### 불필요한 노드와 문서 누락
+
+조회수 같은 기사 성과 수치는 처음에 기사 노드와 별도의 노드로 만들었습니다. 그런데 성과는 기사 하나에만 딸린 값이라 다른 기사와 함께 쓸 일이 없었고, 성과에서 출발하는 질문도 없었습니다. 오히려 성과를 꺼낼 때마다 기사에서 성과 노드로 한 번 더 건너가야 해서 질의만 한 단계 길어졌습니다. 성과를 기사 노드의 속성으로 옮겼고, 옮긴 뒤에도 화면 결과는 이전과 같았습니다.
+
+에이전트가 읽는 온톨로지 문서가 그래프와 어긋난 적도 있습니다. 문서에서 이슈라는 노드 종류가 빠지자 에이전트가 이슈 묶음이 있는데도 없다고 답했습니다. 그 뒤로는 자동 검사를 두었습니다. 그래프에 싣는 코드의 노드·관계 목록과 문서에 적힌 목록을 비교해, 싣기는 하는데 문서에 없는 종류가 있으면 그 이름을 알려 주며 실패합니다.
+
+### ID 충돌과 끊김
+
+Neptune에서 노드 ID는 종류와 상관없이 그래프 전체에서 하나뿐이어야 하는데, 이름을 그대로 ID로 썼습니다. 그러자 태그 '국회'와 기관 '국회'가 노드 하나로 합쳐져, '국회' 태그가 붙은 기사와 기관 '국회'를 언급한 기사를 나눠 물을 수 없었습니다. 그래서 ID 앞에 `tag:국회`, `ent:group:국회`처럼 노드 종류를 붙였습니다.
+
+![왼쪽은 이름 국회를 그대로 ID로 쓰면 태그 국회 카드와 기관 국회 카드가 적재할 때 카드 하나로 합쳐지고, 오른쪽은 ID 앞에 종류를 붙이면 두 카드가 따로 남는 그림](./loader-id.png)
+
+이슈 ID는 처음에 이슈에 속한 기사 목록으로 만들었습니다. 그러면 기사가 하나만 새로 붙어도 ID가 바뀌어, 어제와 오늘 이어지는 같은 이슈가 서로 다른 이슈로 보였습니다. 그 뒤로는 어제 이슈와 기사가 절반 이상 겹치면 그 ID를 이어받게 했습니다.
+
+에이전트가 언제든 그래프에 물을 수 있어야 했지만, 처음엔 매일 전부 비우고 다시 싣느라 그동안 그래프가 비어 있었습니다. 벌크 로더가 이미 있는 ID의 값을 기본적으로 덮어쓰지 않기 때문입니다. 덮어쓰기 옵션도 같은 관계가 매일 같은 ID를 받아야 제대로 덮어쓰는데, 목록의 순번으로 지은 관계 ID는 목록이 바뀌면 같은 관계에도 다른 번호가 붙었습니다. 그래서 관계 ID를 양 끝 노드와 관계 종류로 짓고 덮어쓰기 옵션을 켜, 그래프를 비우지 않고도 바뀐 값만 고치도록 했습니다.
+
+### 남은 한계
+
+같은 사안이 처음부터 두 이슈로 따로 묶인 경우는 아직 풀지 못했습니다. ID를 이어받는 방식으로는 둘이 이어지지 않아, 닮은 이슈를 후보로만 보여 주고 자동으로 합치지는 않았습니다. 인용을 원문과 대조하는 것도 문장이 원문에 있다는 것까지만 보장하고, 판정이 옳은지는 보장하지 못합니다.
 
 ## 마치며
 
-N.C.I의 그래프는 이슈 흐름을 근거와 함께 남겨 후속 발제의 바탕으로 쓰려는 목표에서 시작했습니다. 설계와 구축에서 지킨 것을 정리하면 다음과 같습니다.
+그래프 DB와 온톨로지를 직접 설계하고 운영하며 정리한 내용입니다.
 
-- **질문에서 시작한 모델:** 고정 질문으로 채점하고, 깨지면 되돌렸습니다.
-- **근거는 관계 위에:** 판정 이유와 양쪽 인용을 관계 속성으로 남겼습니다.
-- **만든 방법을 데이터에:** 원천이 준 관계와 만든 관계를 `source`로 구분했습니다.
-- **같은 것을 정하는 ID:** 종류 접두어와 ID 승계로 노드가 합쳐지거나 끊기지 않게 했습니다.
+- **그래프 DB가 필요한 곳:** 화면에 띄우는 집계는 그래프 DB 없이도 충분했습니다. 그래프 DB는 연결과 그 근거를 함께 남겨야 할 때, 하루하루 이어지는 사건의 흐름을 따라가야 할 때, AI 에이전트가 그래프 구조를 읽고 스스로 질의를 짜게 할 때 쓸모가 컸습니다.
+- **온톨로지의 역할:** 틀을 강제하지 않는 그래프 DB에서는 어떤 노드와 관계를 쓰고 각각이 무엇을 뜻하는지 따로 정해야 합니다. 정한 뜻은 문서로 남기고, 실제 데이터와 어긋나지 않는지 검사로 맞춰 두어야 했습니다.
 
-물론 그래프가 모든 것을 해 준 것은 아닙니다. 노드 대부분이 포털 댓글이라 구조는 별 모양에 가까웠고, 화면 계산 대부분은 표로도 됐습니다. 그래프의 값은 근거 보존, 이슈의 이어짐, 미리 정하지 않은 질문에 있었습니다.
-
-이번 작업을 통해 모델을 그리기 전에 질문부터 적어야 한다는 것을 배웠습니다. 그래프 모델을 처음 설계하시는 분께 출발점이 되면 좋겠습니다.
+이 글을 통해 그래프 모델을 처음 접하고 설계하신다면, 모델을 그리기 전에 답해야 할 질문을 적어 보는 것을 출발점으로 삼으시길 권해드립니다.
